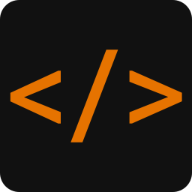
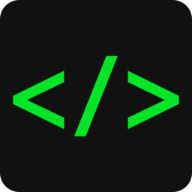
Remove halloween theme color lol

Changed region(s): [[0.6562, 0.3438, 0.9688, 0.6875], [0.0312, 0.3438, 0.3438, 0.6875], [0.3438, 0.25, 0.625, 0.75]]

diff --git a/theme.config.tsx b/theme.config.tsx
@@ -5,7 +5,7 @@ export default {
   logo: (
     <span>
       {" "}
-      <span style={{ color: "#E67300" }}>&lt;/&gt;</span> Web Dev 2
+      <span style={{ color: "#00e626" }}>&lt;/&gt;</span> Web Dev 2
     </span>
   ),
   // project: {
@@ -22,5 +22,5 @@ export default {
   footer: {
     text: "Programming is best learned by solving problems. If you want to learn more, create more problems.",
   },
-  primaryHue: { dark: 30, light: 30 },
+  primaryHue: { dark: 130, light: 130 },
 };

diff --git a/public/slides/reveal.js/theme/web2.css b/public/slides/reveal.js/theme/web2.css
@@ -25,7 +25,7 @@ section.has-light-background h6 {
   --r-block-margin: 20px;
   --r-heading-margin: 0 0 20px 0;
   --r-heading-font: Source Sans Pro, Helvetica, sans-serif;
-  --r-heading-color: #e67300;
+  --r-heading-color: #00e626;
   --r-heading-line-height: 1.2;
   --r-heading-letter-spacing: normal;
   --r-heading-text-transform: uppercase;

diff --git a/components/MultipleChoice.js b/components/MultipleChoice.js
@@ -42,7 +42,7 @@ function MultipleChoice({ question, choices, answer }) {
 
   return (
     <div className={styles.question}>
-      <h2>{question}</h2>
+      {question}
       {isExploding && <ConfettiExplosion />}
       {choices.map((choice, index) => (
         <div
